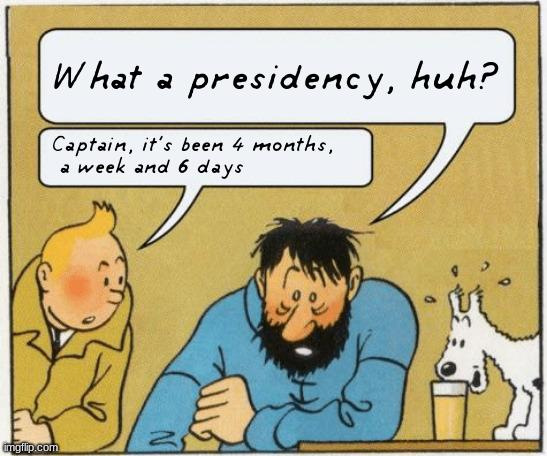
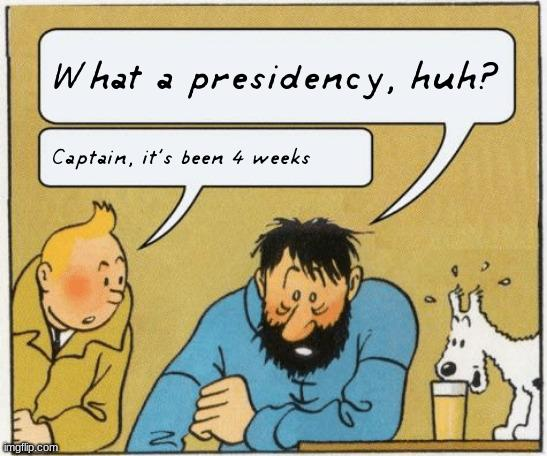
set inauguration date to correct date

Changed region(s): [[0.0932, 0.2763, 0.5905, 0.3991]]

diff --git a/write_image.py b/write_image.py
@@ -7,7 +7,7 @@ from PIL import Image, ImageDraw, ImageFont
 TEMPLATE = "./template.jpg"
 FONT = "tintin.ttf"
 
-INAUGURATION = arrow.get("2024-10-05T12:00:00.000-04:00")
+INAUGURATION = arrow.get("2025-01-20T12:00:00.000-04:00")
 
 CAP_TEXT = "What a presidency, huh?"
 CAP_TEXT_POS = (52, 55)
@@ -84,7 +84,7 @@ def main():
                 fill=(0, 0, 0),
             )
 
-    template.show()
+    # template.show()
 
     template.save(IMAGE_DEST)
 
